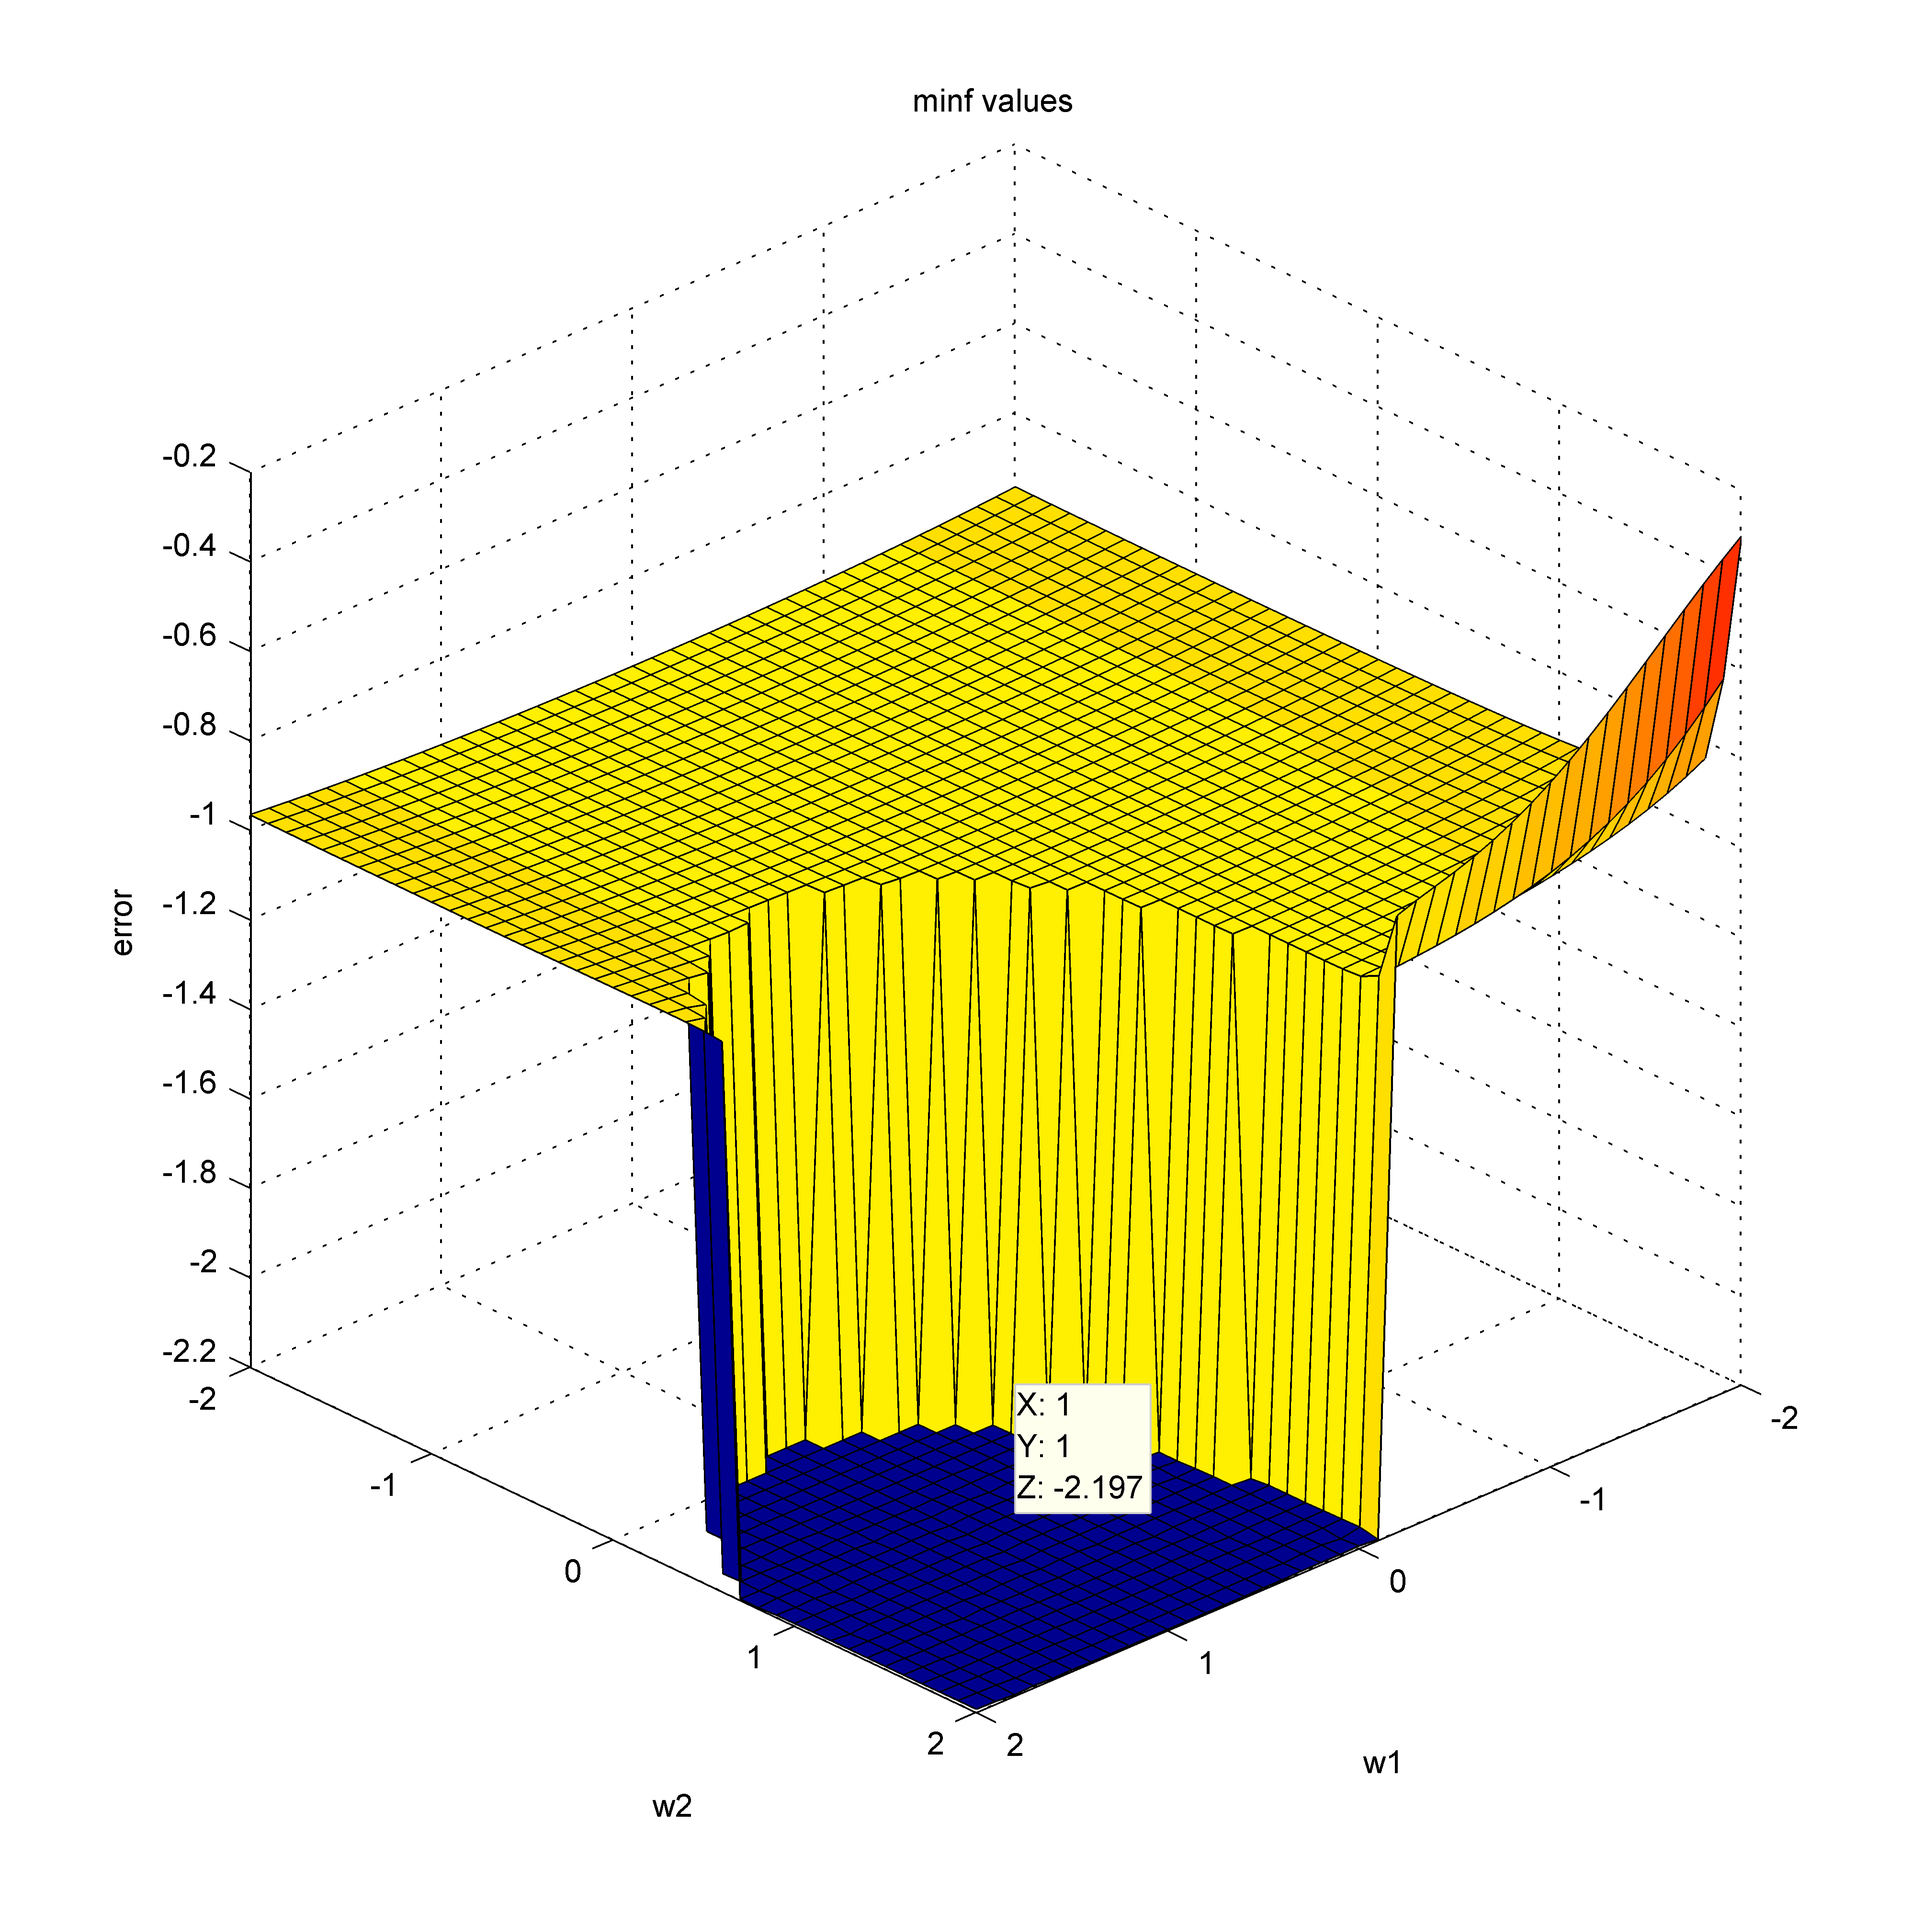
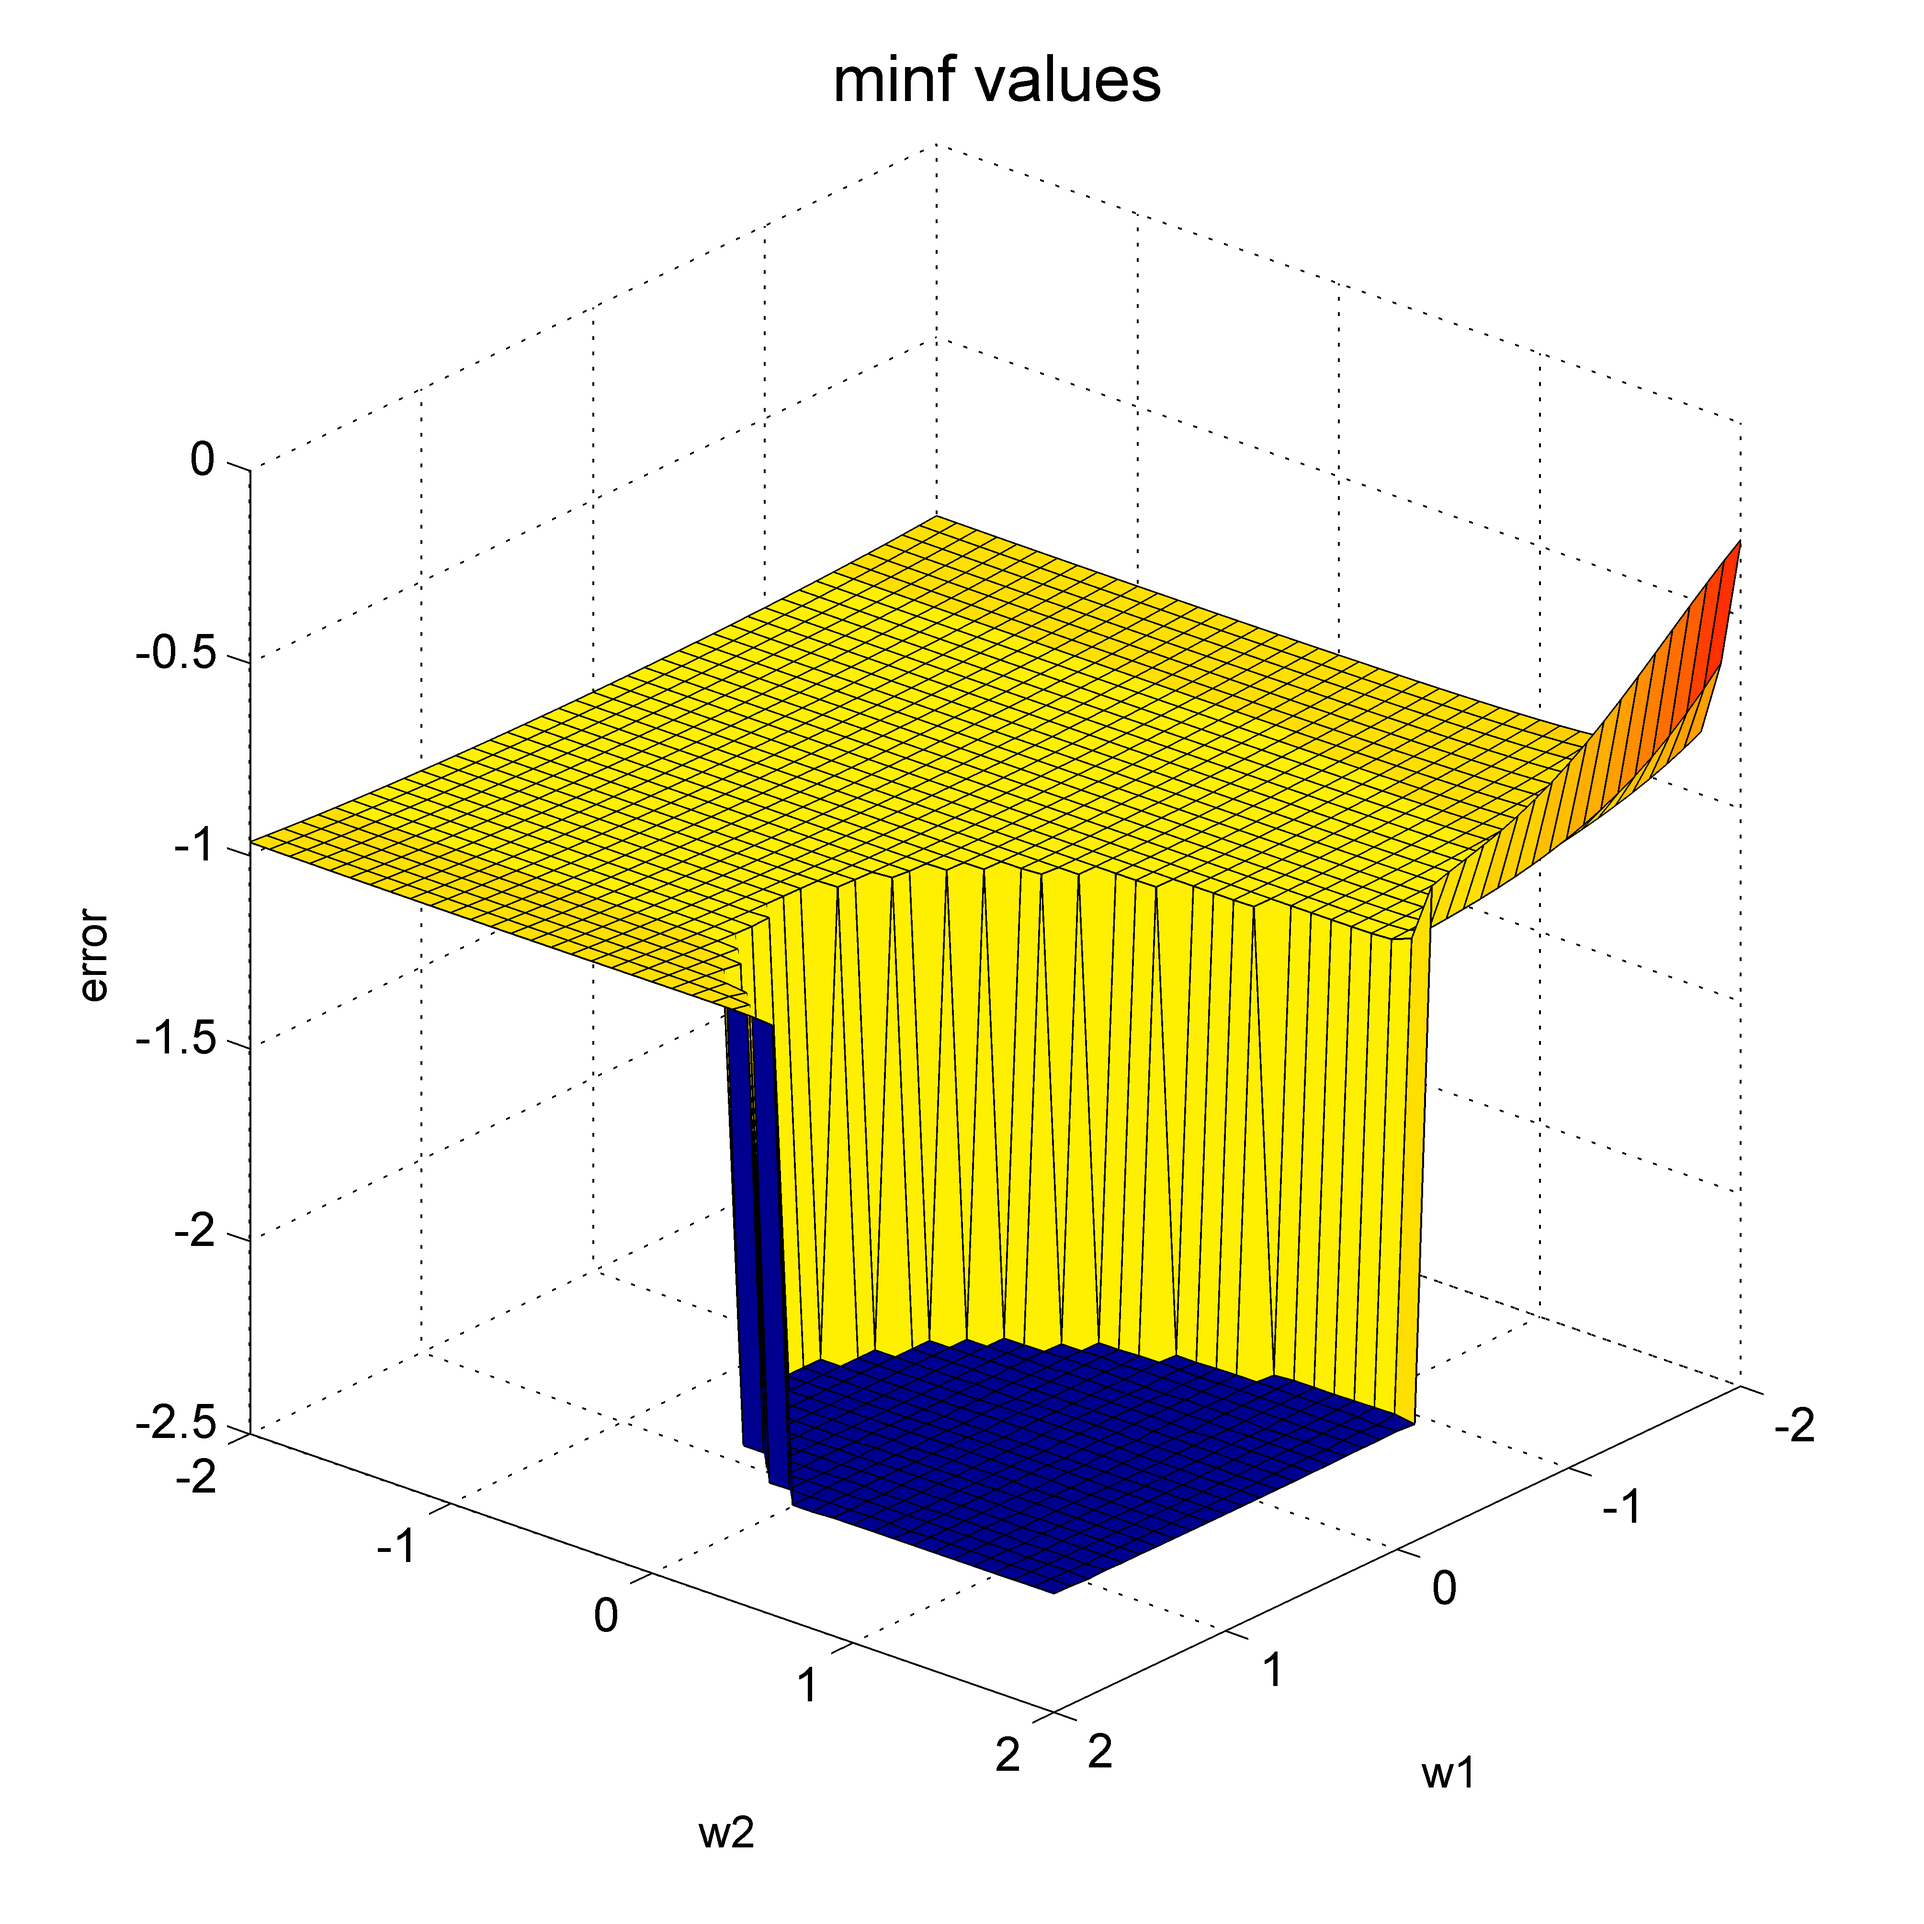
Finished...

diff --git a/02/hw_2_1_5.m b/02/hw_2_1_5.m
@@ -27,7 +27,7 @@ handle = surf(x, y, minf);
 xlabel('w1');
 ylabel('w2');
 zlabel('error');
-tile1 = title('minf values');
+title1 = title('minf values');
 set(title1, 'FontSize', 14);
 
 global_min_point_count = sum(sum(minf < -2 ));

diff --git a/02/demo.m b/02/demo.m
@@ -7,4 +7,7 @@ CONST = 2;
 result = f(w1, w2);
 figure;
 surf(w1, w2, result);
+title1 = title('f');
+colorbar;
+set(title1, 'FontSize', 14);
 [xc,yc] = solve(fx,fy,x,y);  % extrema  SYMBOLIC
